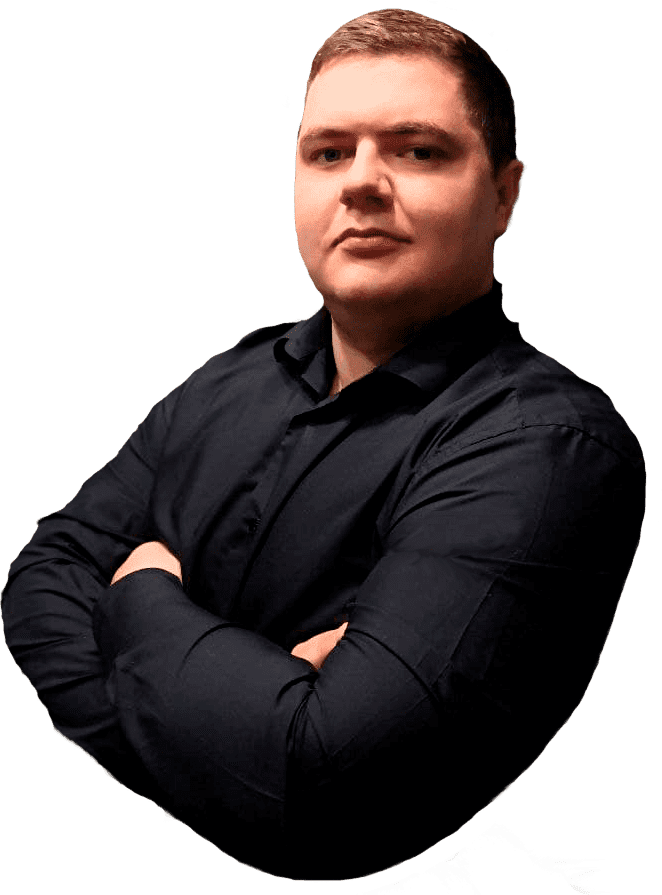
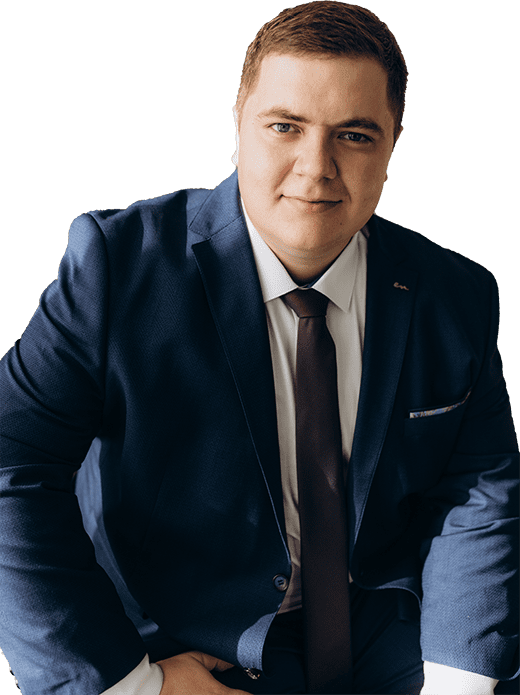
edit header block content replacement

diff --git a/app/scss/_media.scss b/app/scss/_media.scss
@@ -24,10 +24,8 @@
       font-size: 38px;
       line-height: 56px;
     }
-    &__box-img {
-      img {
-        height: 450px;
-      }
+    &__content {
+      margin-left: 65px;
     }
   }
 }
@@ -35,7 +33,11 @@
   .header {
     &__title {
       text-align-last: right;
-      line-height: 42px;
+      font-size: 34px;
+      line-height: 40px;
+    }
+    &__content {
+      margin-left: 35px;
     }
     &__text {
       span {
@@ -99,21 +101,27 @@
 @media (max-width: 670px) {
   .header {
     &__inner {
-      display: block;
+      display: flex;
+      flex-direction: column;
       padding-bottom: 25px;
     }
     &__content {
+      order: 1;
       padding-top: 90px;
+      align-self: flex-end;
+      margin-left: 0;
       span {
-        text-align: left;
+        text-align: right;
         margin-bottom: 5px;
       }
     }
     &__box-img {
-      margin-top: -75px;
+      order: 2;
+      align-self: flex-start;
       img {
         margin-left: auto;
         height: 320px;
+        margin-top: -55px;
       }
     }
   }

diff --git a/app/index.html b/app/index.html
@@ -15,6 +15,9 @@
       <div class="header">
         <div class="container">
           <div class="header__inner">
+            <div class="header__box-img">
+              <img src="images/photo.png" alt="photo">
+            </div>
             <div class="header__content">
               <h1 class="header__title">
                 Микуленко Максим
@@ -24,9 +27,6 @@
                 <span> 27 лет</span>
                 <span>Харьков</span>
               </div>
-            </div>
-            <div class="header__box-img">
-              <img src="images/photo.png" alt="photo">
             </div>
           </div>
         </div>

diff --git a/app/scss/style.scss b/app/scss/style.scss
@@ -12,9 +12,11 @@
   min-height: 100vh;
   &__inner {
     display: flex;
-    justify-content: flex-end;
     align-items: center;
     min-height: 100vh;
+  }
+  &__content{
+    margin-left: 100px;
   }
   &__title {
     @extend %montser-700;
@@ -30,6 +32,7 @@
   &__box-img {
     img {
       height: 65vh;
+      max-height: 750px;
     }
   }
 }
